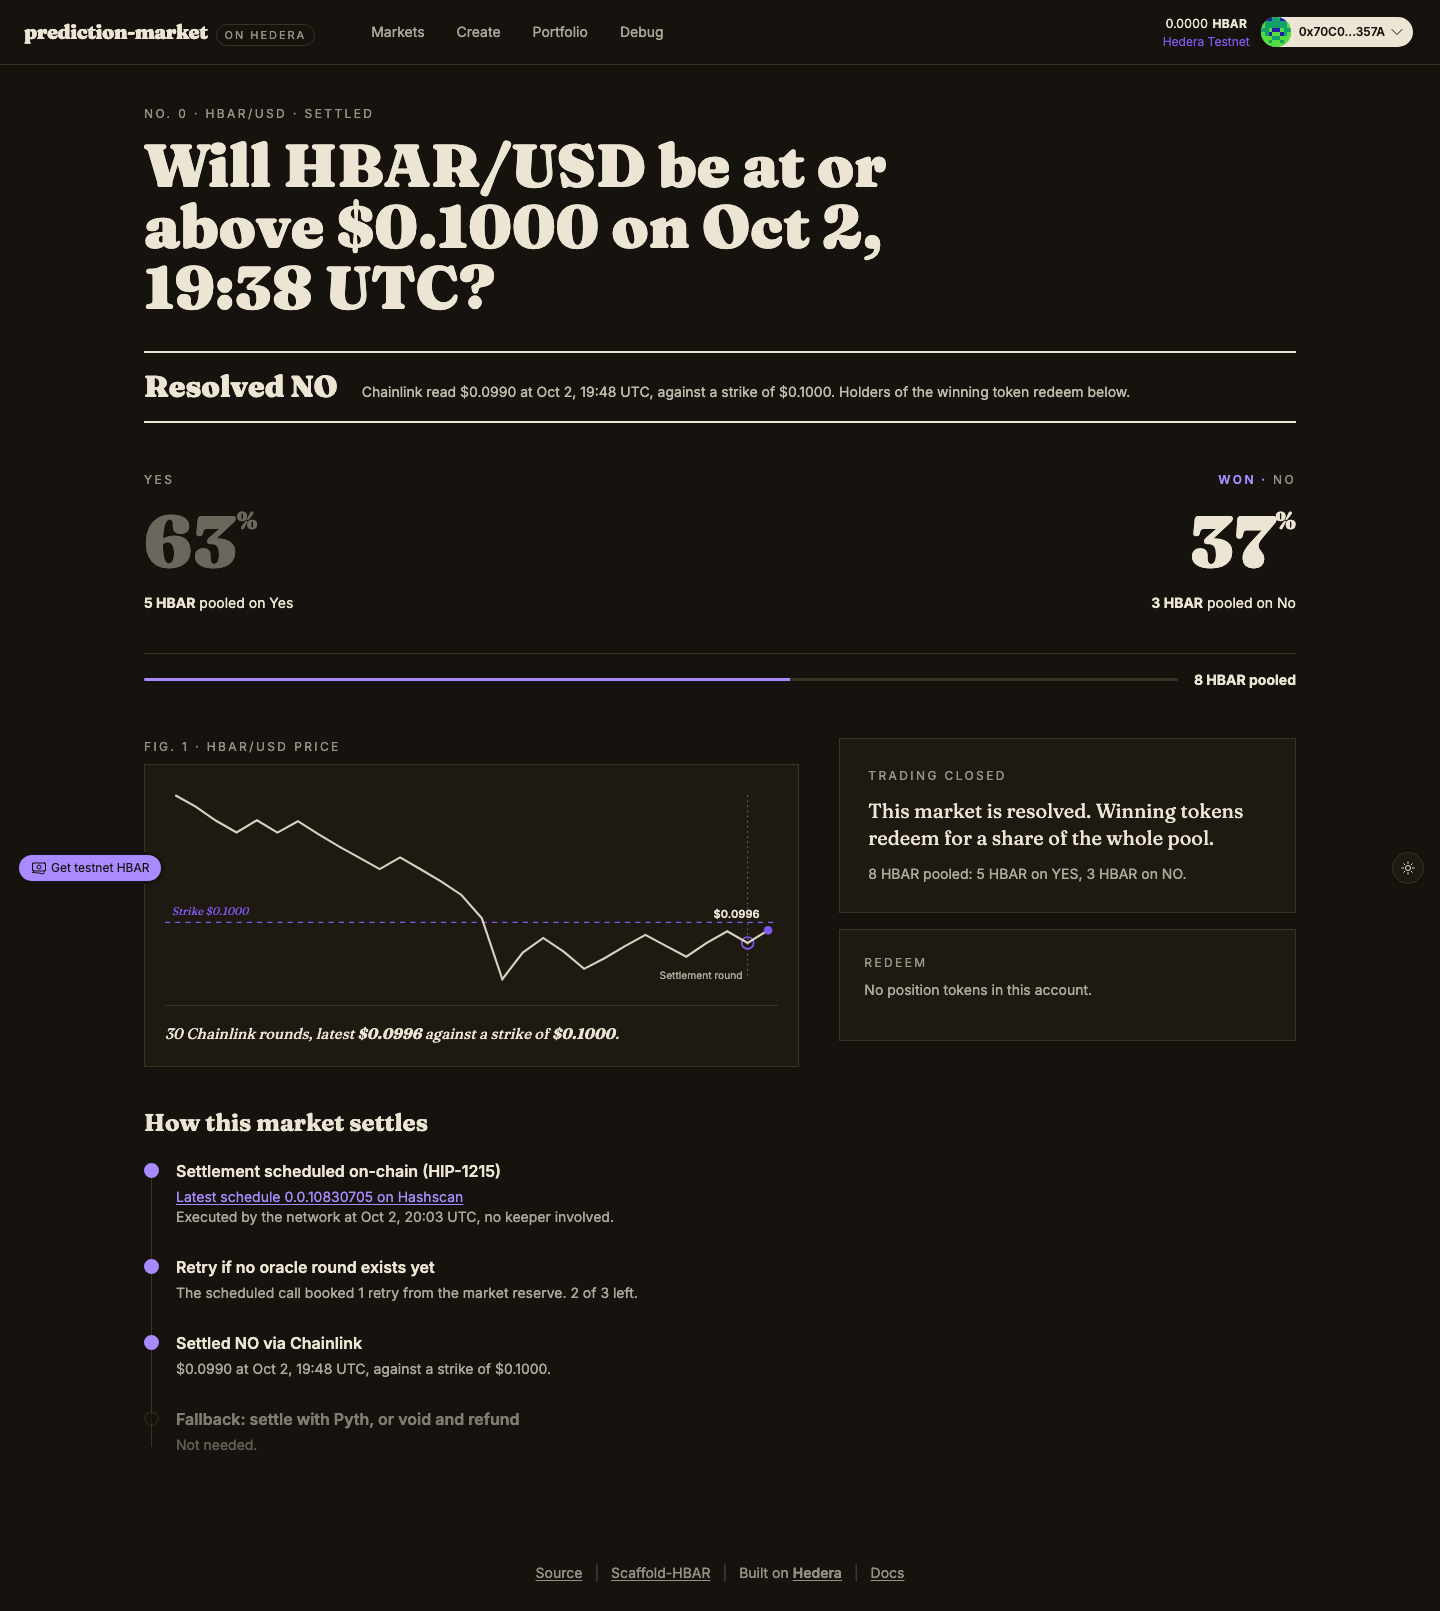
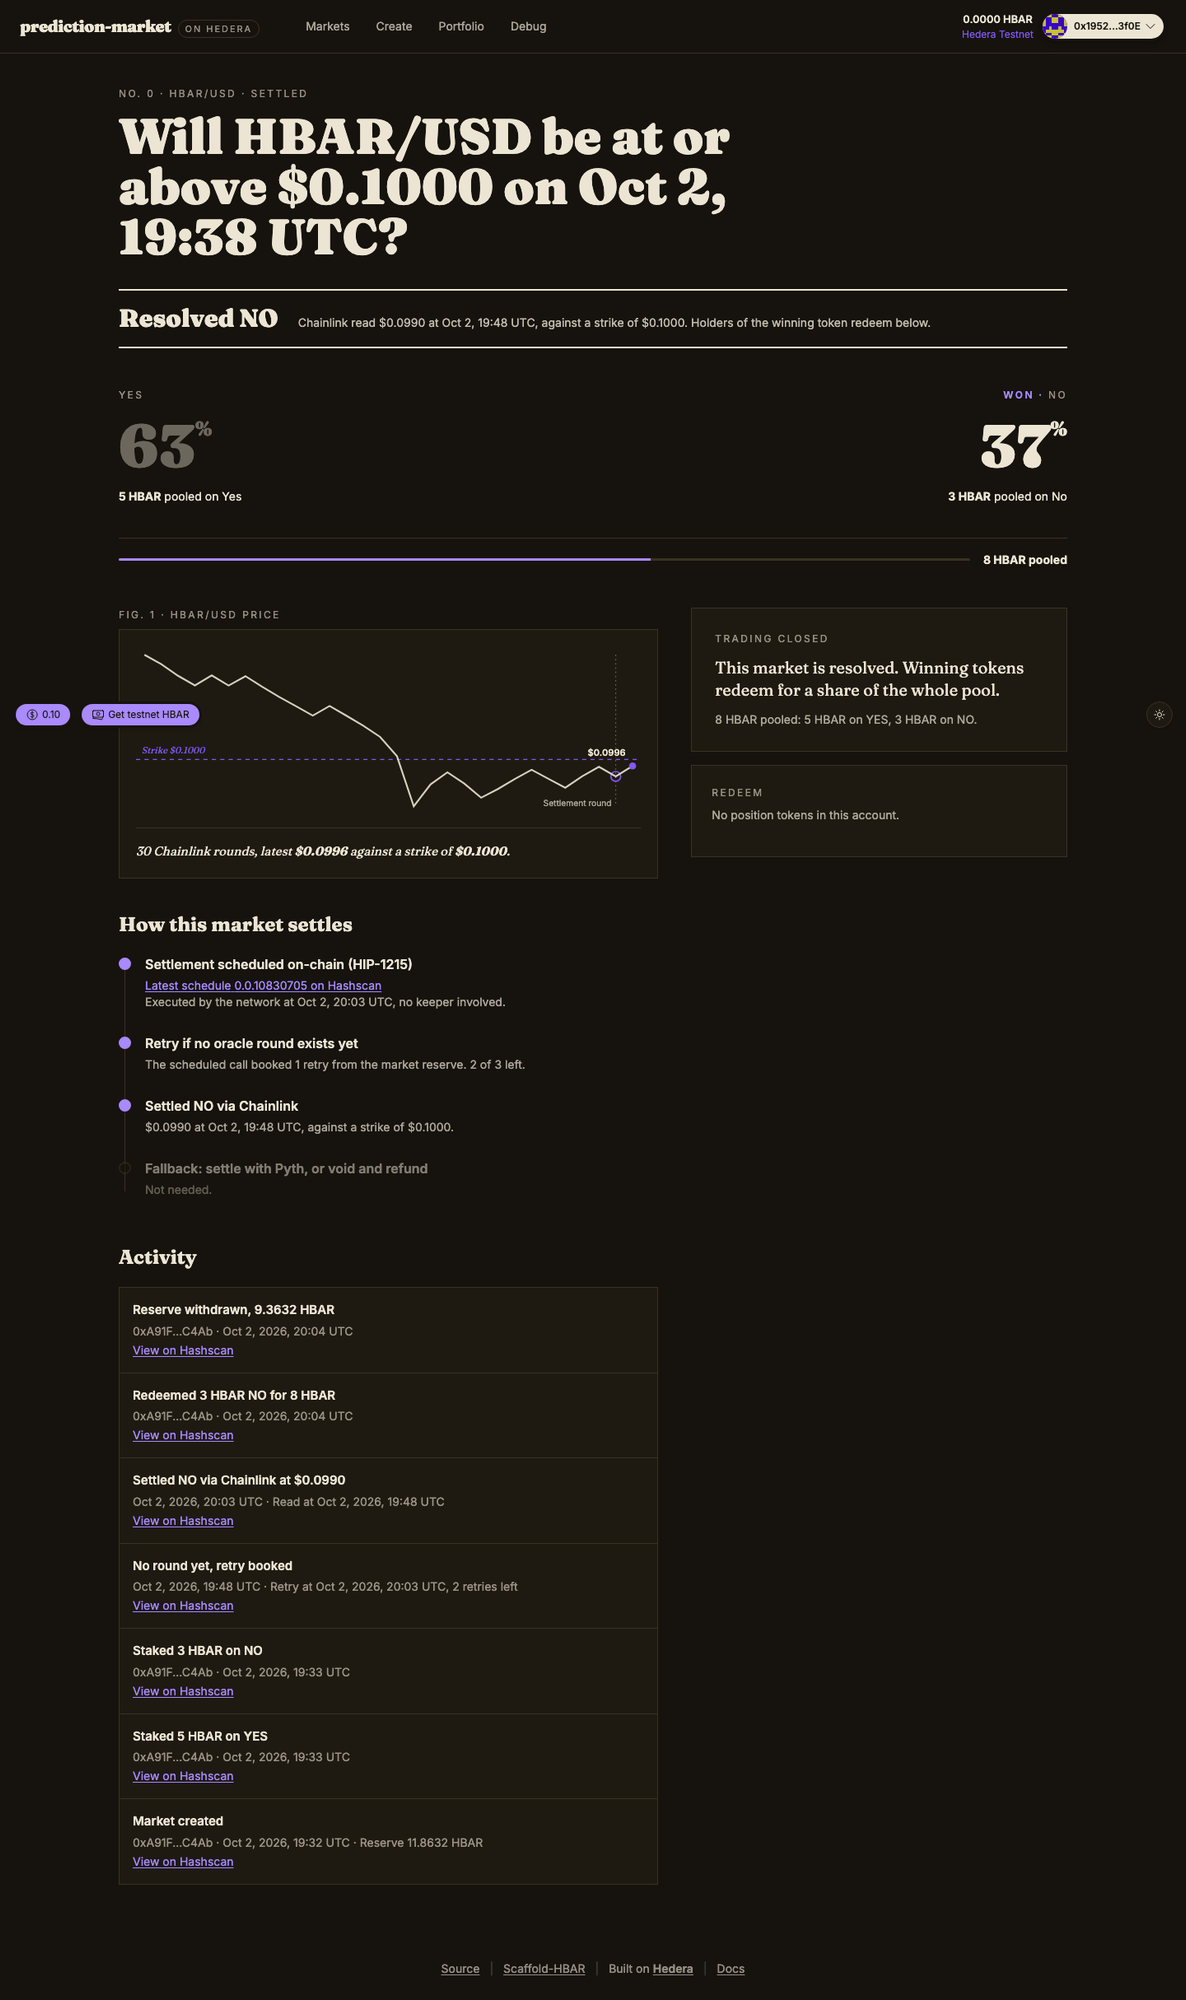
docs: document the real Harness run and grade the acceptance contract
Rewrite the Harness section from what actually happened: the recipe
files, how to run each tier, the generator override and why, the run
branch, what failed and how it was fixed, and a hand-graded table for
the five Tier 3 assertions with evidence. harness:validate now brings
Playwright into the npx environment so Tier 2 runs. Refresh every
screenshot with the activity panel and add an open market.

diff --git a/README.md b/README.md
@@ -6,9 +6,9 @@ Binary price prediction markets on Hedera. Anyone creates a market (for example 
 npm create scaffold-hbar@latest -- --template superhbar/prediction-market
 ```
 
-![A settled market on Hedera testnet: the scheduled call booked one retry, then settled NO on Chainlink](docs/screenshots/market-detail.png)
+![A settled market on Hedera testnet: the scheduled call booked one retry, then settled NO on Chainlink, and every step is in the activity panel with a Hashscan link](docs/screenshots/market-detail.png)
 
-More screenshots: [market list](docs/screenshots/markets.png), [create form](docs/screenshots/create.png), [mobile](docs/screenshots/market-detail-mobile.png), [dark theme](docs/screenshots/market-detail-dark.png). All are taken from the production build against the live testnet deployment.
+More screenshots: [an open market with the payout preview](docs/screenshots/market-open.png), [market list](docs/screenshots/markets.png), [create form](docs/screenshots/create.png), [mobile](docs/screenshots/market-detail-mobile.png), [dark theme](docs/screenshots/market-detail-dark.png). All are taken from the production build against the live testnet deployment.
 
 ## What you get
 
@@ -175,13 +175,14 @@ packages/nextjs/
   app/markets/[id]/page.tsx         Market detail: pools, odds, countdowns, stake, settle, void, redeem
   app/portfolio/page.tsx            Positions across markets
   app/api/pyth/route.ts             Server-only Hermes proxy; PYTH_API_KEY never reaches the browser
-  components/markets/               MarketCard, StakePanel, RedeemPanel, OddsBar, Countdown, PriceChart, SettlementTimeline, States
-  hooks/markets/                    useMarket, useMarkets, usePositions, useMarketConfig, useChainlinkHistory, useScheduleStatus, useFeedInfo, useCreationEstimate
+  components/markets/               MarketCard, StakePanel, RedeemPanel, OddsBar, Countdown, PriceChart, SettlementTimeline, ActivityPanel, States
+  hooks/markets/                    useMarket, useMarkets, usePositions, useMarketConfig, useChainlinkHistory, useScheduleStatus, useFeedInfo, useCreationEstimate, useMarketActivity
   hooks/scaffold-hbar/              Scaffold read, write, event, and transactor hooks
   utils/markets/units.ts            The single tinybar and weibar conversion boundary, plus frontend gas limits
   utils/markets/feeds.ts            Feed keys and bytes32 conversion
   utils/markets/status.ts           Derives UI status (open, awaiting-settlement, retrying, settle-available, voidable, settled, voided)
-  utils/markets/mirror.ts           Mirror node REST reads (exchange rate, account, token association, schedule status)
+  utils/markets/mirror.ts           Mirror node REST reads (exchange rate, account, token association, schedule status, contract logs)
+  utils/markets/activity.ts         Decodes PredictionMarkets event logs into the activity panel rows
   utils/markets/hashscan.ts         Hashscan and entity id link builders
 .harness/                           Harness recipe: spec, PRDs, validators (see Using Hedera Harness)
 docs/hedera-notes.md                Hedera behaviour measured on testnet (units, HTS, HIP-1215, oracles, tooling)
@@ -258,15 +259,52 @@ Full lifecycle run with `yarn foundry:e2e:testnet` on 2026-10-02 against the dep
 
 ## Using Hedera Harness
 
-`.harness/` holds the Harness recipe for this template: the feature spec, the PRDs under `.harness/prds/`, static and command validators (Tier 0 to 1), a Playwright smoke test over the core routes (Tier 2), and chain validation that reuses `yarn foundry:e2e:testnet` (Tier 3.5).
+[Hedera Harness](https://github.com/hedera-dev/hedera-harness) runs a coding agent against a recipe and only accepts the result when deterministic validators pass. This template ships its recipe in `.harness/`, and the market activity panel on every market page was built with it.
+
+| File | What it does |
+|---|---|
+| `.harness/spec.yaml` | Recipe (schema v2): agent, baseline commands, validators, Tier 3 contract, Tier 3.5 chain validation |
+| `.harness/prds/01-market-activity.md` | The feature brief, including the mirror node facts the agent needs (filter logs by `topics[1]` on the client) |
+| `.harness/validators/static.json` | Tier 0: template shape, docs, forbidden env files, required feature files |
+| `.harness/validators/yarn.json` | Tier 1: install, lint, type-check, vitest, forge tests, production build |
+| `.harness/validators/playwright-smoke.yaml` | Tier 2: boots the app and loads every route with zero console errors |
+| `.harness/acceptance-contract.json` | Tier 3: five numbered assertions graded against market 0's real testnet history |
+
+Check the recipe and run the cheap tiers (no agent, no keys):
 
 ```bash
-npx hedera-harness doctor
-npx hedera-harness validate
-npx hedera-harness run
+npx playwright@1.63.0 install chromium   # once, for the Tier 2 browser
+yarn harness:doctor
+yarn harness:validate
 ```
 
-`doctor` checks the environment, `validate` runs the static and command gates, and `run` builds a feature from `.harness/prds/` against the same validators. New features built this way inherit the testnet lifecycle check, so settlement behavior stays verified.
+`harness:doctor` lists every missing piece for a full run (agent CLI, optional packages, operator env). `harness:validate` runs Tiers 0 to 2 and passes on `main`.
+
+A full run needs the Tier 2 and Tier 3.5 extras next to the CLI, an agent CLI (`claude` by default), and an ECDSA testnet operator that funds a throwaway signer and gets the HBAR swept back at the end:
+
+```bash
+npm i -g hedera-harness@1.2.2 playwright @hiero-ledger/sdk
+export HEDERA_OPERATOR_ID=0.0.xxxxx HEDERA_OPERATOR_KEY=0x...
+hedera-harness run
+```
+
+### How the activity panel was built
+
+- Run branch: [`harness/run-market-activity-674bcd`](https://github.com/superhbar/prediction-market/tree/harness/run-market-activity-674bcd), one commit per attempt.
+- The nested `claude` CLI was not logged in on the build machine, so the run used the recipe's `generator:` override: OpenCode wrote the first pass, then agy (Claude Sonnet 4.6) took over when OpenCode's free model hit its rate limit. Tier 3 grading needs the same agent CLI, so it was done by hand; the results are below.
+- Tier 3.5 provisioned a funded ephemeral account on every attempt and swept it back (for example `0.0.10831218`, `0.0.10831341`).
+- The run ended with type-check, build, lint, tests and the static checks green, and one Tier 2 failure that was not the agent's code: the header balance and the HBAR price fetched CoinGecko and a second mirror host, which failed to resolve on the build machine. Both were fixed on `main` (the app now reads only the testnet mirror and the relay), and `yarn harness:validate` passes there with Tier 2 green on all routes.
+- The generated decoder, hook, panel and 9 unit tests landed unchanged apart from one comment.
+
+Tier 3 acceptance contract, graded by hand on the production build:
+
+| Id | Assertion | Result |
+|---|---|---|
+| C1 | Market 0 lists created, two stakes, retry booked, settled NO, redeemed, reserve withdrawn, newest first, with correct amounts | Pass: 7 entries, 5 and 3 HBAR |
+| C2 | Each entry links to the transaction that emitted it | Pass: every hash matches the mirror node logs, settlement is `0x9c2da867...` |
+| C3 | Loading and error states, page keeps working | Pass by code review (skeleton, error with Retry, failures stay inside the panel) |
+| C4 | Existing routes and the resolution strip still render | Pass |
+| C5 | A new stake appears after a real transaction | Pass with the deployer as signer: [stake on market 1](https://hashscan.io/testnet/transaction/0x8b508cde06355e3acbc1e6f5439ef0b5048373f039e7fcbcd0122a94e841618e) showed up on refresh |
 
 ## Disclaimer
 
